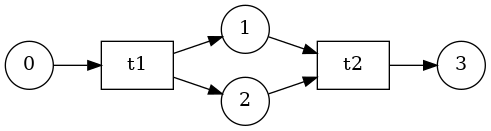
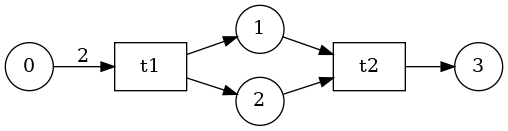
Mention ipfs.gmi in the index
Add multiplicity to somenet

Changed region(s): [[0.0, 0.0305, 1.0, 0.9771], [0.0305, 0.3053, 0.0916, 0.3664]]

diff --git a/root/index.html b/root/index.html
@@ -3,8 +3,8 @@
 <p>This is where you'll find nothing interesting, welcome.</p>
 <ul>
 <li><a href="about.html">About</a></li>
-<li><a href="tinylog.html">Tinylog</a></li></ul>
-<p><em>TODO:</em> Mention IPFS</p>
+<li><a href="tinylog.html">Tinylog</a></li>
+<li><a href="ipfs.gmi">Also available through IPFS</a></li></ul>
 <h2>Posts</h2>
 <ul>
 <li><a href="petri_nets/log003.html">2022-07-24 - Petri Nets Log #003</a></li>
